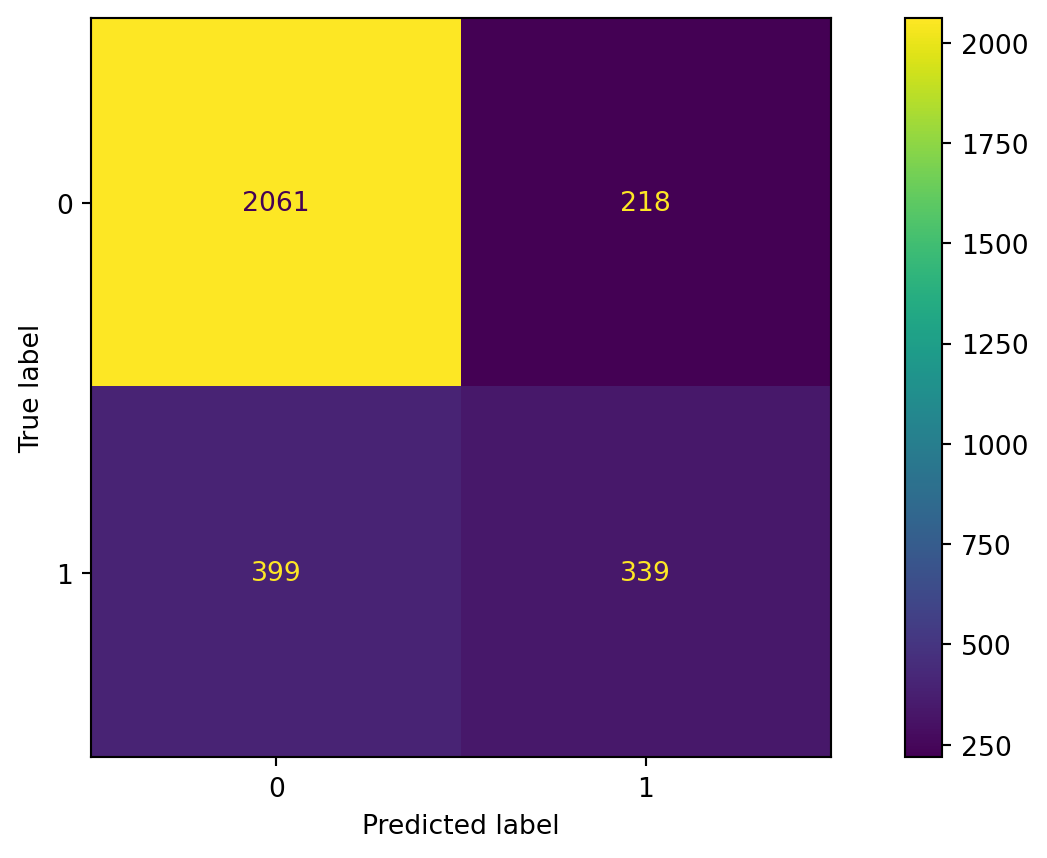
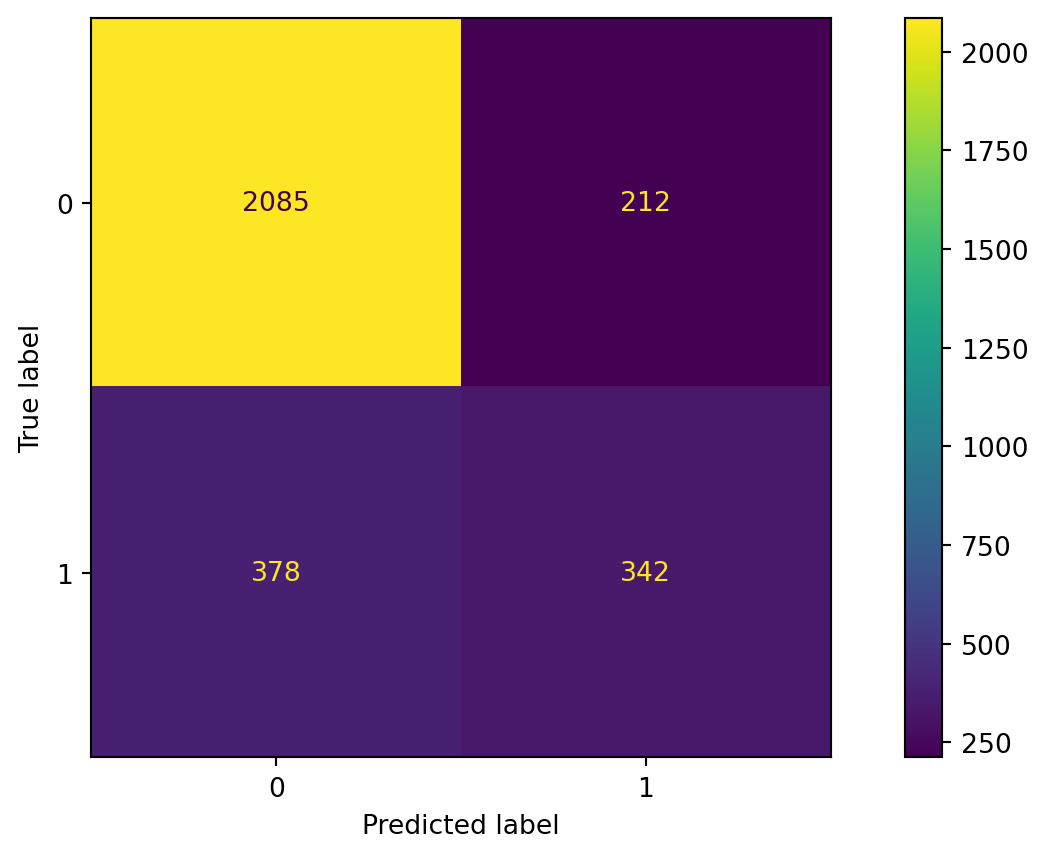
First version ensamble methods

diff --git a/_site/Module2/EnsembleMethods.html b/_site/Module2/EnsembleMethods.html
@@ -215,12 +215,9 @@ Alan R. Vazquez
 <h2>Agenda</h2>
 <p><br></p>
 <ol type="1">
-<li>Introduction to Ensemble Methods
-<ul>
+<li>Introduction to Ensemble Methods</li>
 <li>Bagging</li>
 <li>Random Forests</li>
-</ul></li>
-<li><em>K</em>-Nearest Neighbors</li>
 </ol>
 </section>
 <section>
@@ -231,7 +228,7 @@ Alan R. Vazquez
 <section id="load-the-libraries" class="slide level2">
 <h2>Load the libraries</h2>
 <p>Before we start, let’s import the data science libraries into Python.</p>
-<div id="0e754b3a" class="cell" data-execution_count="1">
+<div id="fcfb9963" class="cell" data-execution_count="1">
 <div class="sourceCode cell-code" id="cb1"><pre class="sourceCode numberSource python number-lines code-with-copy"><code class="sourceCode python"><span id="cb1-1"><a></a><span class="co"># Importing necessary libraries</span></span>
 <span id="cb1-2"><a></a><span class="im">import</span> pandas <span class="im">as</span> pd</span>
 <span id="cb1-3"><a></a><span class="im">import</span> matplotlib.pyplot <span class="im">as</span> plt</span>
@@ -361,13 +358,13 @@ Alan R. Vazquez
 </section>
 <section id="read-the-dataset" class="slide level2">
 <h2>Read the dataset</h2>
-<div id="64c92bc1" class="cell" data-execution_count="2">
+<div id="04ac1b03" class="cell" data-execution_count="2">
 <div class="sourceCode cell-code" id="cb2"><pre class="sourceCode numberSource python number-lines code-with-copy"><code class="sourceCode python"><span id="cb2-1"><a></a><span class="co"># Load the data</span></span>
 <span id="cb2-2"><a></a>Adult_data <span class="op">=</span> pd.read_excel(<span class="st">'AdultReduced.xlsx'</span>)</span>
 <span id="cb2-3"><a></a></span>
 <span id="cb2-4"><a></a><span class="co"># Preview the data.</span></span>
 <span id="cb2-5"><a></a>Adult_data.head(<span class="dv">3</span>)</span></code><button title="Copy to Clipboard" class="code-copy-button"><i class="bi"></i></button></pre></div>
-<div class="cell-output cell-output-display" data-execution_count="66">
+<div class="cell-output cell-output-display" data-execution_count="50">
 <div>
 <style scoped="">
     .dataframe tbody tr th:only-of-type {
@@ -475,7 +472,7 @@ Alan R. Vazquez
 <li>education.num: number of years of education.</li>
 <li>hours.per.week: Number of work hours per week.</li>
 </ul>
-<div id="d5571b33" class="cell" data-execution_count="3">
+<div id="2187140f" class="cell" data-execution_count="3">
 <div class="sourceCode cell-code" id="cb3"><pre class="sourceCode numberSource python number-lines code-with-copy"><code class="sourceCode python"><span id="cb3-1"><a></a><span class="co"># Choose the predictors.</span></span>
 <span id="cb3-2"><a></a>Adult_Subset <span class="op">=</span> Adult_data.<span class="bu">filter</span>([<span class="st">'age'</span>, <span class="st">'education.num'</span>, <span class="st">'capital.gain'</span>, </span>
 <span id="cb3-3"><a></a>                                  <span class="st">'hours.per.week'</span>, <span class="st">'income'</span>])</span></code><button title="Copy to Clipboard" class="code-copy-button"><i class="bi"></i></button></pre></div>
@@ -484,14 +481,14 @@ Alan R. Vazquez
 <section id="set-the-target-class" class="slide level2">
 <h2>Set the target class</h2>
 <p>Let’s set the <strong>target class</strong> and the <strong>reference class</strong> using the <code>get_dummies()</code> function.</p>
-<div id="5bc6ff44" class="cell" data-execution_count="4">
+<div id="14efafc3" class="cell" data-execution_count="4">
 <div class="sourceCode cell-code" id="cb4"><pre class="sourceCode numberSource python number-lines code-with-copy"><code class="sourceCode python"><span id="cb4-1"><a></a><span class="co"># Select answer</span></span>
 <span id="cb4-2"><a></a>Y <span class="op">=</span> Adult_Subset[<span class="st">'income'</span>]</span>
 <span id="cb4-3"><a></a><span class="co"># Create dummy variables.</span></span>
 <span id="cb4-4"><a></a>Y_dummies <span class="op">=</span> pd.get_dummies(Y, dtype <span class="op">=</span> <span class="st">'int'</span>)</span>
 <span id="cb4-5"><a></a><span class="co"># Show.</span></span>
 <span id="cb4-6"><a></a>Y_dummies.head(<span class="dv">4</span>)</span></code><button title="Copy to Clipboard" class="code-copy-button"><i class="bi"></i></button></pre></div>
-<div class="cell-output cell-output-display" data-execution_count="68">
+<div class="cell-output cell-output-display" data-execution_count="52">
 <div>
 <style scoped="">
     .dataframe tbody tr th:only-of-type {
@@ -547,12 +544,12 @@ Alan R. Vazquez
 <h2></h2>
 <p><br><br></p>
 <p>Here we’ll use the <strong>large</strong> target class. So, let’s use the corresponding column as our response variable.</p>
-<div id="9349971c" class="cell" data-execution_count="5">
+<div id="58ac08b8" class="cell" data-execution_count="5">
 <div class="sourceCode cell-code" id="cb5"><pre class="sourceCode numberSource python number-lines code-with-copy"><code class="sourceCode python"><span id="cb5-1"><a></a><span class="co"># Choose target category.</span></span>
 <span id="cb5-2"><a></a>Y_target <span class="op">=</span> Y_dummies[<span class="st">'large'</span>]</span>
 <span id="cb5-3"><a></a></span>
 <span id="cb5-4"><a></a>Y_target.head()</span></code><button title="Copy to Clipboard" class="code-copy-button"><i class="bi"></i></button></pre></div>
-<div class="cell-output cell-output-display" data-execution_count="69">
+<div class="cell-output cell-output-display" data-execution_count="53">
 <pre><code>0    0
 1    0
 2    0
@@ -566,7 +563,7 @@ Name: large, dtype: int64</code></pre>
 <h2>Training and validation datasets</h2>
 <p><br></p>
 <p>To evaluate a model’s performance on unobserved data, we split the current dataset into training and validation datasets. To do this, we use <code>train_test_split()</code> from <strong>scikit-learn</strong>.</p>
-<div id="e3aaa07f" class="cell" data-execution_count="6">
+<div id="727a56f9" class="cell" data-execution_count="6">
 <div class="sourceCode cell-code" id="cb7"><pre class="sourceCode numberSource python number-lines code-with-copy"><code class="sourceCode python"><span id="cb7-1"><a></a><span class="co"># Create predictor matrix</span></span>
 <span id="cb7-2"><a></a>X_full <span class="op">=</span> Adult_Subset.drop(columns <span class="op">=</span> [<span class="st">'income'</span>])</span>
 <span id="cb7-3"><a></a></span>
@@ -581,7 +578,7 @@ Name: large, dtype: int64</code></pre>
 <p><br></p>
 <p>We define a bagging algorithm for classification using the <code>BaggingClassifier</code> function from <strong>scikit-learn</strong>.</p>
 <p>The <code>n_estimators</code> argument is the number of decision trees to generate in bagging. Ideally, it should be high, around 500.</p>
-<div id="81f76a11" class="cell" data-execution_count="7">
+<div id="f53181eb" class="cell" data-execution_count="7">
 <div class="sourceCode cell-code" id="cb8"><pre class="sourceCode numberSource python number-lines code-with-copy"><code class="sourceCode python"><span id="cb8-1"><a></a><span class="co"># Set the bagging algorithm.</span></span>
 <span id="cb8-2"><a></a>Baggingalgorithm <span class="op">=</span> BaggingClassifier(n_estimators <span class="op">=</span> <span class="dv">500</span>, </span>
 <span id="cb8-3"><a></a>                                     random_state <span class="op">=</span> <span class="dv">59227</span>)</span>
@@ -594,18 +591,18 @@ Name: large, dtype: int64</code></pre>
 <section id="predictions-1" class="slide level2">
 <h2>Predictions</h2>
 <p>Predict the classes using bagging.</p>
-<div id="a4af1634" class="cell" data-execution_count="8">
+<div id="8c9129ba" class="cell" data-execution_count="8">
 <div class="sourceCode cell-code" id="cb9"><pre class="sourceCode numberSource python number-lines code-with-copy"><code class="sourceCode python"><span id="cb9-1"><a></a>predicted_class <span class="op">=</span> Baggingalgorithm.predict(X_valid)</span>
 <span id="cb9-2"><a></a></span>
 <span id="cb9-3"><a></a>predicted_class</span></code><button title="Copy to Clipboard" class="code-copy-button"><i class="bi"></i></button></pre></div>
-<div class="cell-output cell-output-display" data-execution_count="72">
-<pre><code>array([0, 0, 0, ..., 0, 0, 1])</code></pre>
+<div class="cell-output cell-output-display" data-execution_count="56">
+<pre><code>array([0, 1, 0, ..., 0, 0, 0])</code></pre>
 </div>
 </div>
 </section>
 <section id="confusion-matrix" class="slide level2">
 <h2>Confusion matrix</h2>
-<div id="c6c04230" class="cell" data-execution_count="9">
+<div id="eee484e4" class="cell" data-execution_count="9">
 <div class="sourceCode cell-code" id="cb11"><pre class="sourceCode numberSource python number-lines code-with-copy"><code class="sourceCode python"><span id="cb11-1"><a></a><span class="co"># Compute confusion matrix.</span></span>
 <span id="cb11-2"><a></a>cm <span class="op">=</span> confusion_matrix(Y_valid, predicted_class)</span>
 <span id="cb11-3"><a></a></span>
@@ -624,7 +621,7 @@ Name: large, dtype: int64</code></pre>
 <h2>Accuracy</h2>
 <p><br><br></p>
 <p>The accuracy of the bagging classifier is 78%.</p>
-<div id="6097af7d" class="cell" data-execution_count="10">
+<div id="ea07d555" class="cell" data-execution_count="10">
 <div class="sourceCode cell-code" id="cb12"><pre class="sourceCode numberSource python number-lines code-with-copy"><code class="sourceCode python"><span id="cb12-1"><a></a><span class="co"># Compute accuracy.</span></span>
 <span id="cb12-2"><a></a>accuracy <span class="op">=</span> accuracy_score(Y_valid, predicted_class)</span>
 <span id="cb12-3"><a></a></span>
@@ -638,7 +635,7 @@ Name: large, dtype: int64</code></pre>
 <section id="a-single-pruned-tree" class="slide level2">
 <h2>A single pruned tree</h2>
 <p>To compare the bagging, let’s use a single tree with cost complexity pruning.</p>
-<div id="144605ed" class="cell" data-execution_count="11">
+<div id="63507371" class="cell" data-execution_count="11">
 <details class="code-fold">
 <summary>Code</summary>
 <div class="sourceCode cell-code" id="cb14"><pre class="sourceCode numberSource python number-lines code-with-copy"><code class="sourceCode python"><span id="cb14-1"><a></a><span class="co"># Set the classification tree.</span></span>
@@ -666,12 +663,12 @@ Name: large, dtype: int64</code></pre>
 </details>
 </div>
 <p>Let’s compute the accuracy of the pruned tree.</p>
-<div id="219ec3dc" class="cell" data-execution_count="12">
+<div id="39968c88" class="cell" data-execution_count="12">
 <div class="sourceCode cell-code" id="cb15"><pre class="sourceCode numberSource python number-lines code-with-copy"><code class="sourceCode python"><span id="cb15-1"><a></a>single_tree_Y_pred <span class="op">=</span> clf_simple.predict(X_valid)</span>
 <span id="cb15-2"><a></a>accuracy <span class="op">=</span> accuracy_score(Y_valid, single_tree_Y_pred)</span>
 <span id="cb15-3"><a></a><span class="bu">print</span>( <span class="bu">round</span>(accuracy, <span class="dv">2</span>) )</span></code><button title="Copy to Clipboard" class="code-copy-button"><i class="bi"></i></button></pre></div>
 <div class="cell-output cell-output-stdout">
-<pre><code>0.79</code></pre>
+<pre><code>0.8</code></pre>
 </div>
 </div>
 </section>
@@ -732,17 +729,20 @@ Name: large, dtype: int64</code></pre>
 <ul>
 <li><p>Not so dominant predictors will get a chance to appear by themselves and show “their stuff”.</p></li>
 <li><p>This adds more diversity to the trees.</p></li>
-<li><p>The fact that the trees in the forest are not (strongly) correlated means lower variability.</p></li>
+<li><p>The fact that the trees in the forest are not (strongly) correlated means lower variability in the predictions and so, a bettter performance overall.</p></li>
 </ul>
 </section>
 <section id="tuning-parameter" class="slide level2">
 <h2>Tuning parameter</h2>
+<p><br></p>
 <p>How do we set <span class="math inline">\(m\)</span>?</p>
 <ul>
 <li>For classification, use <span class="math inline">\(m = \lfloor \sqrt{p} \rfloor\)</span> and the minimum node size is 1.</li>
 </ul>
 <p>In practice, sometimes the best values for these parameters will depend on the problem. So, we can treat <span class="math inline">\(m\)</span> as a tuning parameter.</p>
+<blockquote>
 <p>Note that if <span class="math inline">\(m = p\)</span>, we get bagging.</p>
+</blockquote>
 </section>
 <section id="the-final-product-is-a-black-box" class="slide level2">
 <h2>The final product is a black box</h2>
@@ -754,9 +754,61 @@ Name: large, dtype: int64</code></pre>
 </section>
 <section id="random-forest-in-python" class="slide level2">
 <h2>Random Forest in Python</h2>
-
-
+<p><br></p>
+<p>In Python, we define a RandomForest algorithm for classification using the <code>RandomForestClassifier</code> function from <strong>scikit-learn</strong>. The <code>n_estimators</code> argument is the number of decision trees to generate in the RandomForest, and <code>random_state</code> allows you to reprudce the results.</p>
+<div id="21cc87f2" class="cell" data-execution_count="13">
+<div class="sourceCode cell-code" id="cb17"><pre class="sourceCode numberSource python number-lines code-with-copy"><code class="sourceCode python"><span id="cb17-1"><a></a><span class="co"># Set the bagging algorithm.</span></span>
+<span id="cb17-2"><a></a>RFalgorithm <span class="op">=</span> RandomForestClassifier(n_estimators <span class="op">=</span> <span class="dv">500</span>,</span>
+<span id="cb17-3"><a></a>                                     random_state <span class="op">=</span> <span class="dv">59227</span>)</span>
+<span id="cb17-4"><a></a></span>
+<span id="cb17-5"><a></a><span class="co"># Train the bagging algorithm.</span></span>
+<span id="cb17-6"><a></a>RFalgorithm.fit(X_train, Y_train)</span></code><button title="Copy to Clipboard" class="code-copy-button"><i class="bi"></i></button></pre></div>
+</div>
+</section>
+<section id="confusion-matrix-1" class="slide level2">
+<h2>Confusion matrix</h2>
+<p>Evaluate the performance of random forest.</p>
+<div id="58d6fc6a" class="cell" data-execution_count="14">
+<details class="code-fold">
+<summary>Code</summary>
+<div class="sourceCode cell-code" id="cb18"><pre class="sourceCode numberSource python number-lines code-with-copy"><code class="sourceCode python"><span id="cb18-1"><a></a><span class="co"># Predict class.</span></span>
+<span id="cb18-2"><a></a>RF_predicted <span class="op">=</span> RFalgorithm.predict(X_valid)</span>
+<span id="cb18-3"><a></a></span>
+<span id="cb18-4"><a></a><span class="co"># Compute confusion matrix.</span></span>
+<span id="cb18-5"><a></a>cm <span class="op">=</span> confusion_matrix(Y_valid, RF_predicted)</span>
+<span id="cb18-6"><a></a></span>
+<span id="cb18-7"><a></a><span class="co"># Visualize the matrix.</span></span>
+<span id="cb18-8"><a></a>ConfusionMatrixDisplay(cm).plot()</span></code><button title="Copy to Clipboard" class="code-copy-button"><i class="bi"></i></button></pre></div>
+</details>
+<div class="cell-output cell-output-display">
+<div class="quarto-figure quarto-figure-center">
+<figure>
+<p><img data-src="EnsembleMethods_files/figure-revealjs/cell-15-output-1.png" class="quarto-figure quarto-figure-center" width="524" height="429"></p>
+</figure>
+</div>
+</div>
+</div>
+</section>
+<section id="accuracy-1" class="slide level2">
+<h2>Accuracy</h2>
+<p><br><br></p>
+<p>The accuracy of the random forest classifier is 79%.</p>
+<div id="1b8390ad" class="cell" data-execution_count="15">
+<div class="sourceCode cell-code" id="cb19"><pre class="sourceCode numberSource python number-lines code-with-copy"><code class="sourceCode python"><span id="cb19-1"><a></a><span class="co"># Compute accuracy.</span></span>
+<span id="cb19-2"><a></a>accuracy <span class="op">=</span> accuracy_score(Y_valid, RF_predicted)</span>
+<span id="cb19-3"><a></a></span>
+<span id="cb19-4"><a></a><span class="co"># Show accuracy.</span></span>
+<span id="cb19-5"><a></a><span class="bu">print</span>( <span class="bu">round</span>(accuracy, <span class="dv">2</span>) )</span></code><button title="Copy to Clipboard" class="code-copy-button"><i class="bi"></i></button></pre></div>
+<div class="cell-output cell-output-stdout">
+<pre><code>0.81</code></pre>
+</div>
+</div>
 </section></section>
+<section id="return-to-main-page" class="title-slide slide level1 center">
+<h1><a href="https://alanrvazquez.github.io/TEC-IN1002B-Website/">Return to main page</a></h1>
+
+
+</section>
     </div>
   <div class="quarto-auto-generated-content" style="display: none;">
 <p><img src="IN1002b_logo.png" class="slide-logo"></p>
